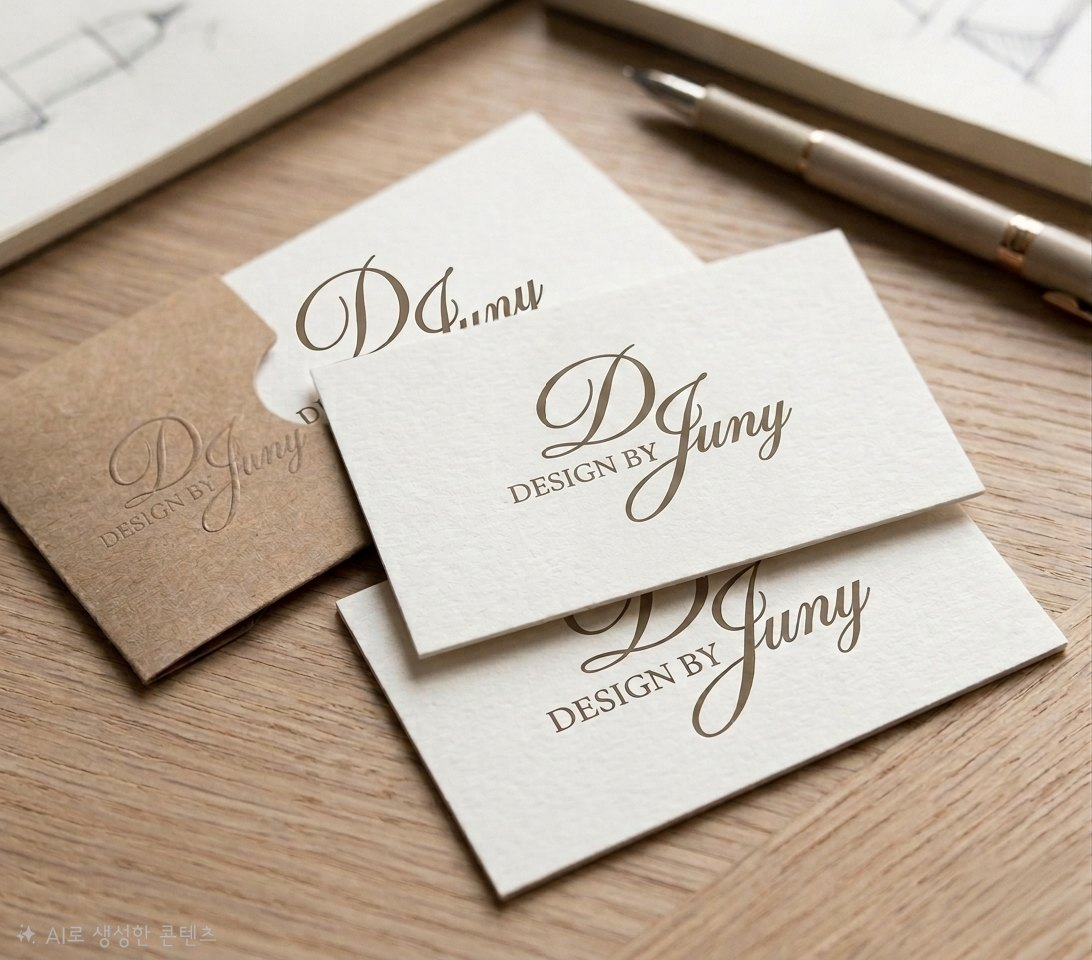
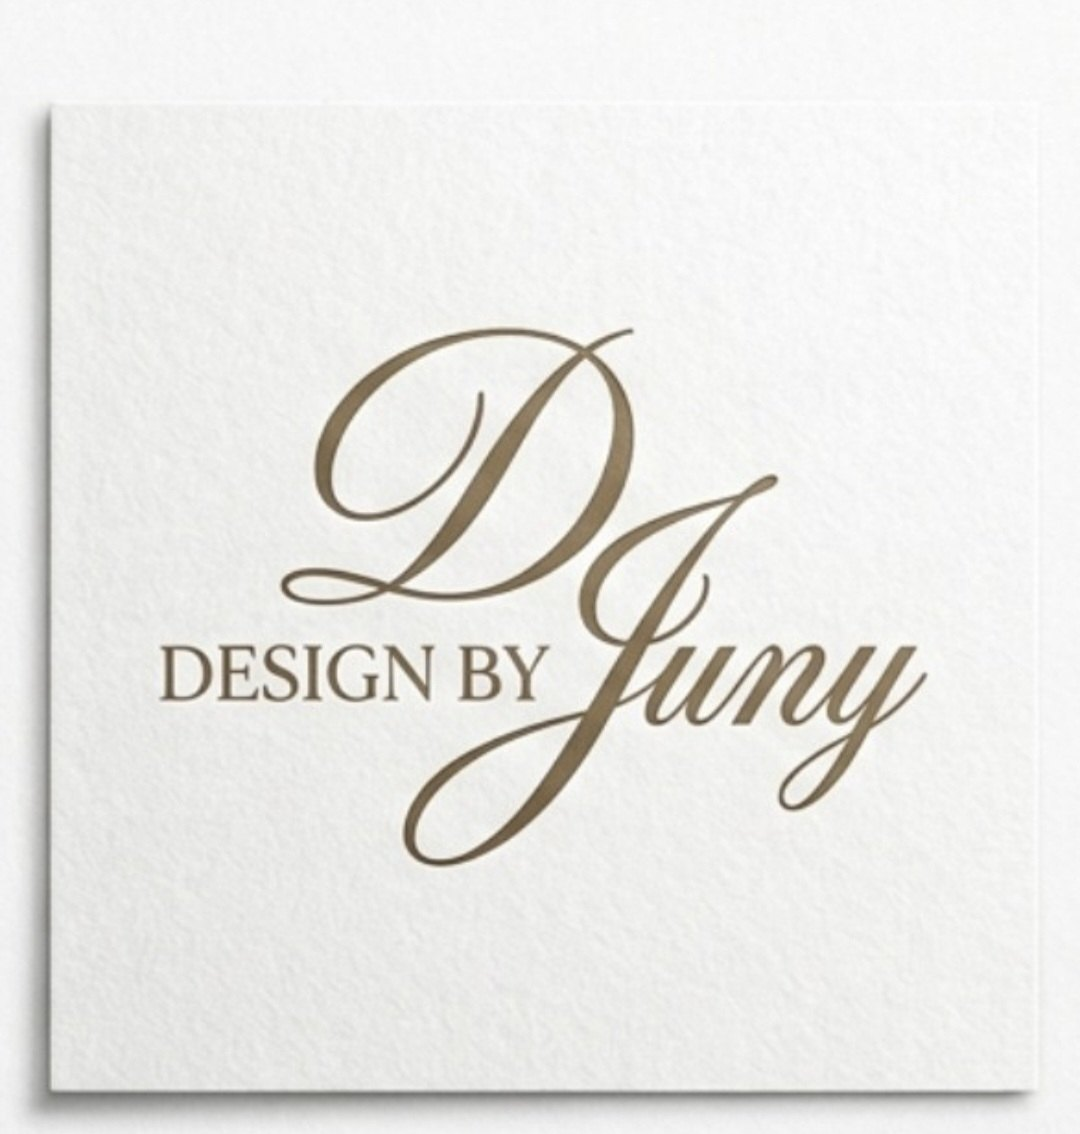
D Juny 작업물 이미지 교체
목업에 AI 생성 표시와 글자 깨짐이 있어 깨끗한 이미지로 교체.

- djuny-card.jpg 를 로고 단독 이미지로 변경 (156KB → 97KB)
- 내용에 맞춰 설명을 "명함 디자인"에서 "로고 디자인"으로 수정
- 텀블러 이미지는 기존 파일과 동일하여 유지

Claude-Session: https://claude.ai/code/session_017k88eCwHgaHqXUauqk9q1x

diff --git a/config.js b/config.js
@@ -66,7 +66,7 @@ const PORTFOLIO = [
   { image: "images/portfolio/winebar-logo.jpg",     title: "와인바 브랜드",     desc: "와인바 로고" },
 
   /* 3번째 줄 */
-  { image: "images/portfolio/djuny-card.jpg",       title: "D Juny",           desc: "명함 디자인" },
+  { image: "images/portfolio/djuny-card.jpg",       title: "D Juny",           desc: "로고 디자인" },
   { image: "images/portfolio/djuny-tumbler.jpg",    title: "D Juny",           desc: "텀블러 각인" },
   { image: "images/portfolio/lgw-card.jpg",         title: "LGW",              desc: "명함 디자인" },
 
